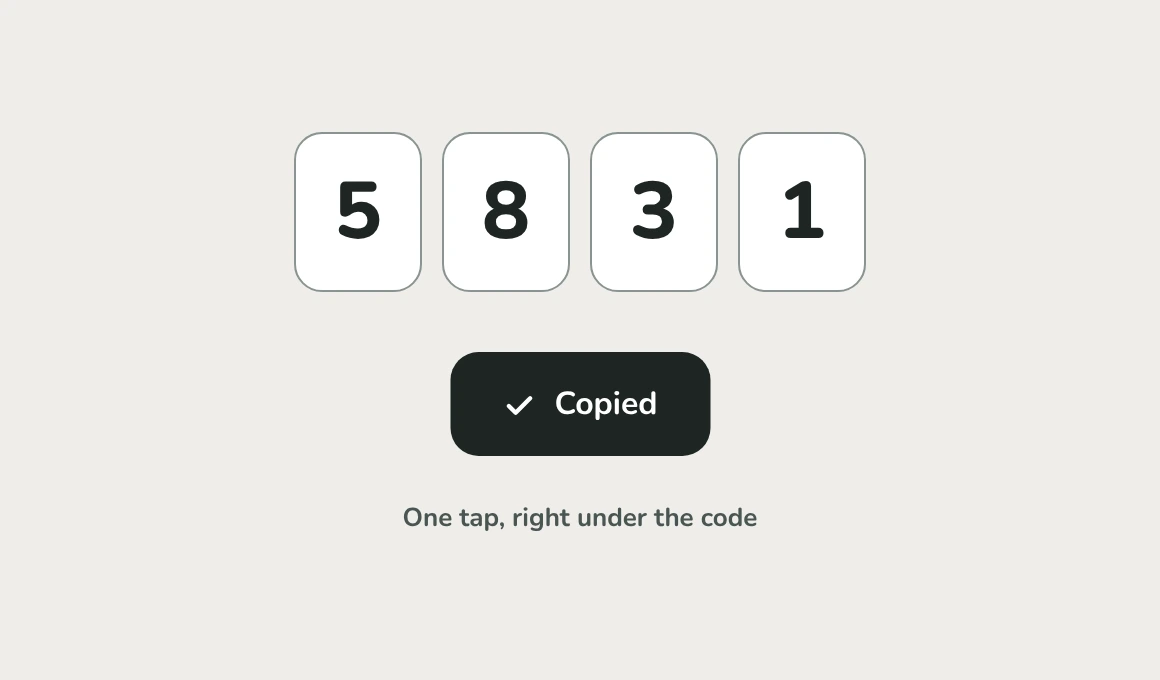
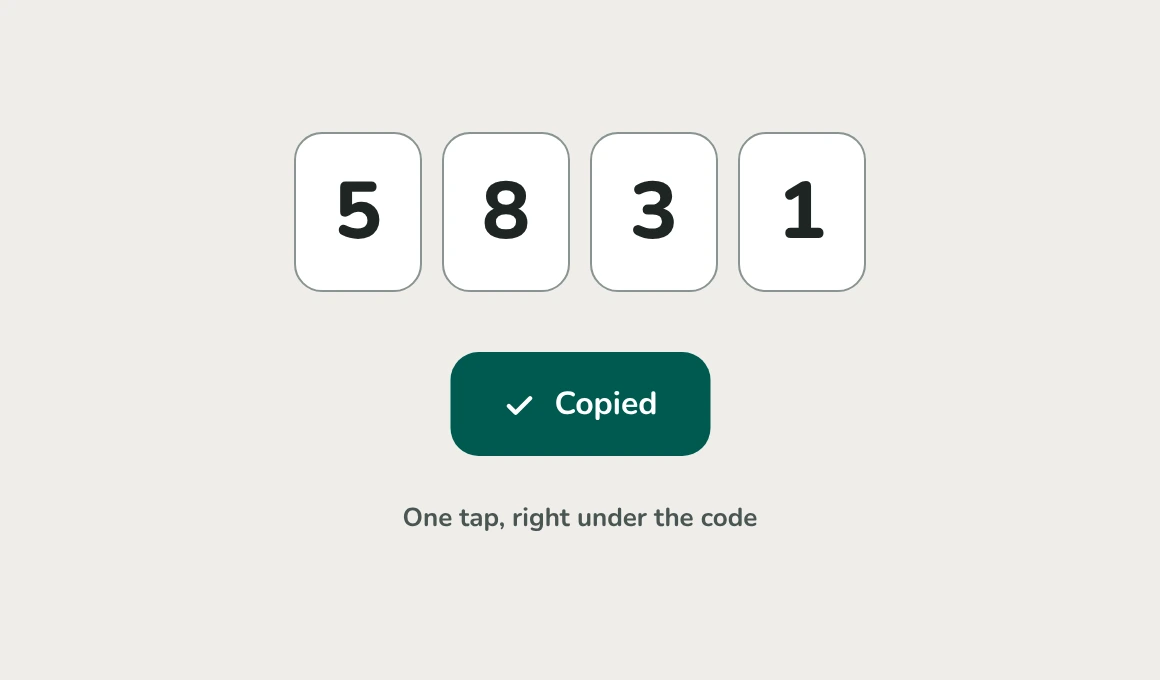
copy button changed color in otp

Changed region(s): [[0.3724, 0.4941, 0.6207, 0.6794]]

diff --git a/otp-authenticator.html b/otp-authenticator.html
@@ -136,7 +136,7 @@
         .mt-digits { display: flex; gap: 6px; justify-content: center; margin: 0 0 16px; }
         .mt-digits span { width: 40px; height: 50px; border-radius: 12px; background: #fff; border: 1.5px solid #8A9492; display: grid; place-items: center; font-size: 1.5rem; font-weight: 800; font-variant-numeric: tabular-nums; }
         .mt-copy { display: flex; align-items: center; gap: 8px; min-height: 48px; padding: 0 24px; margin: 0 auto 18px; border: 0; border-radius: 14px; background: #00796B; color: #fff; font: inherit; font-size: 0.9rem; font-weight: 700; cursor: pointer; }
-        .mt-copy.is-copied { background: #1D2523; }
+        .mt-copy.is-copied { background: #005A50; }
         .mt-copy svg { width: 16px; height: 16px; }
         .mt-ring { position: relative; width: 170px; height: 170px; margin: 0 auto; }
         .mt-ring svg { width: 100%; height: 100%; transform: rotate(-90deg); }
